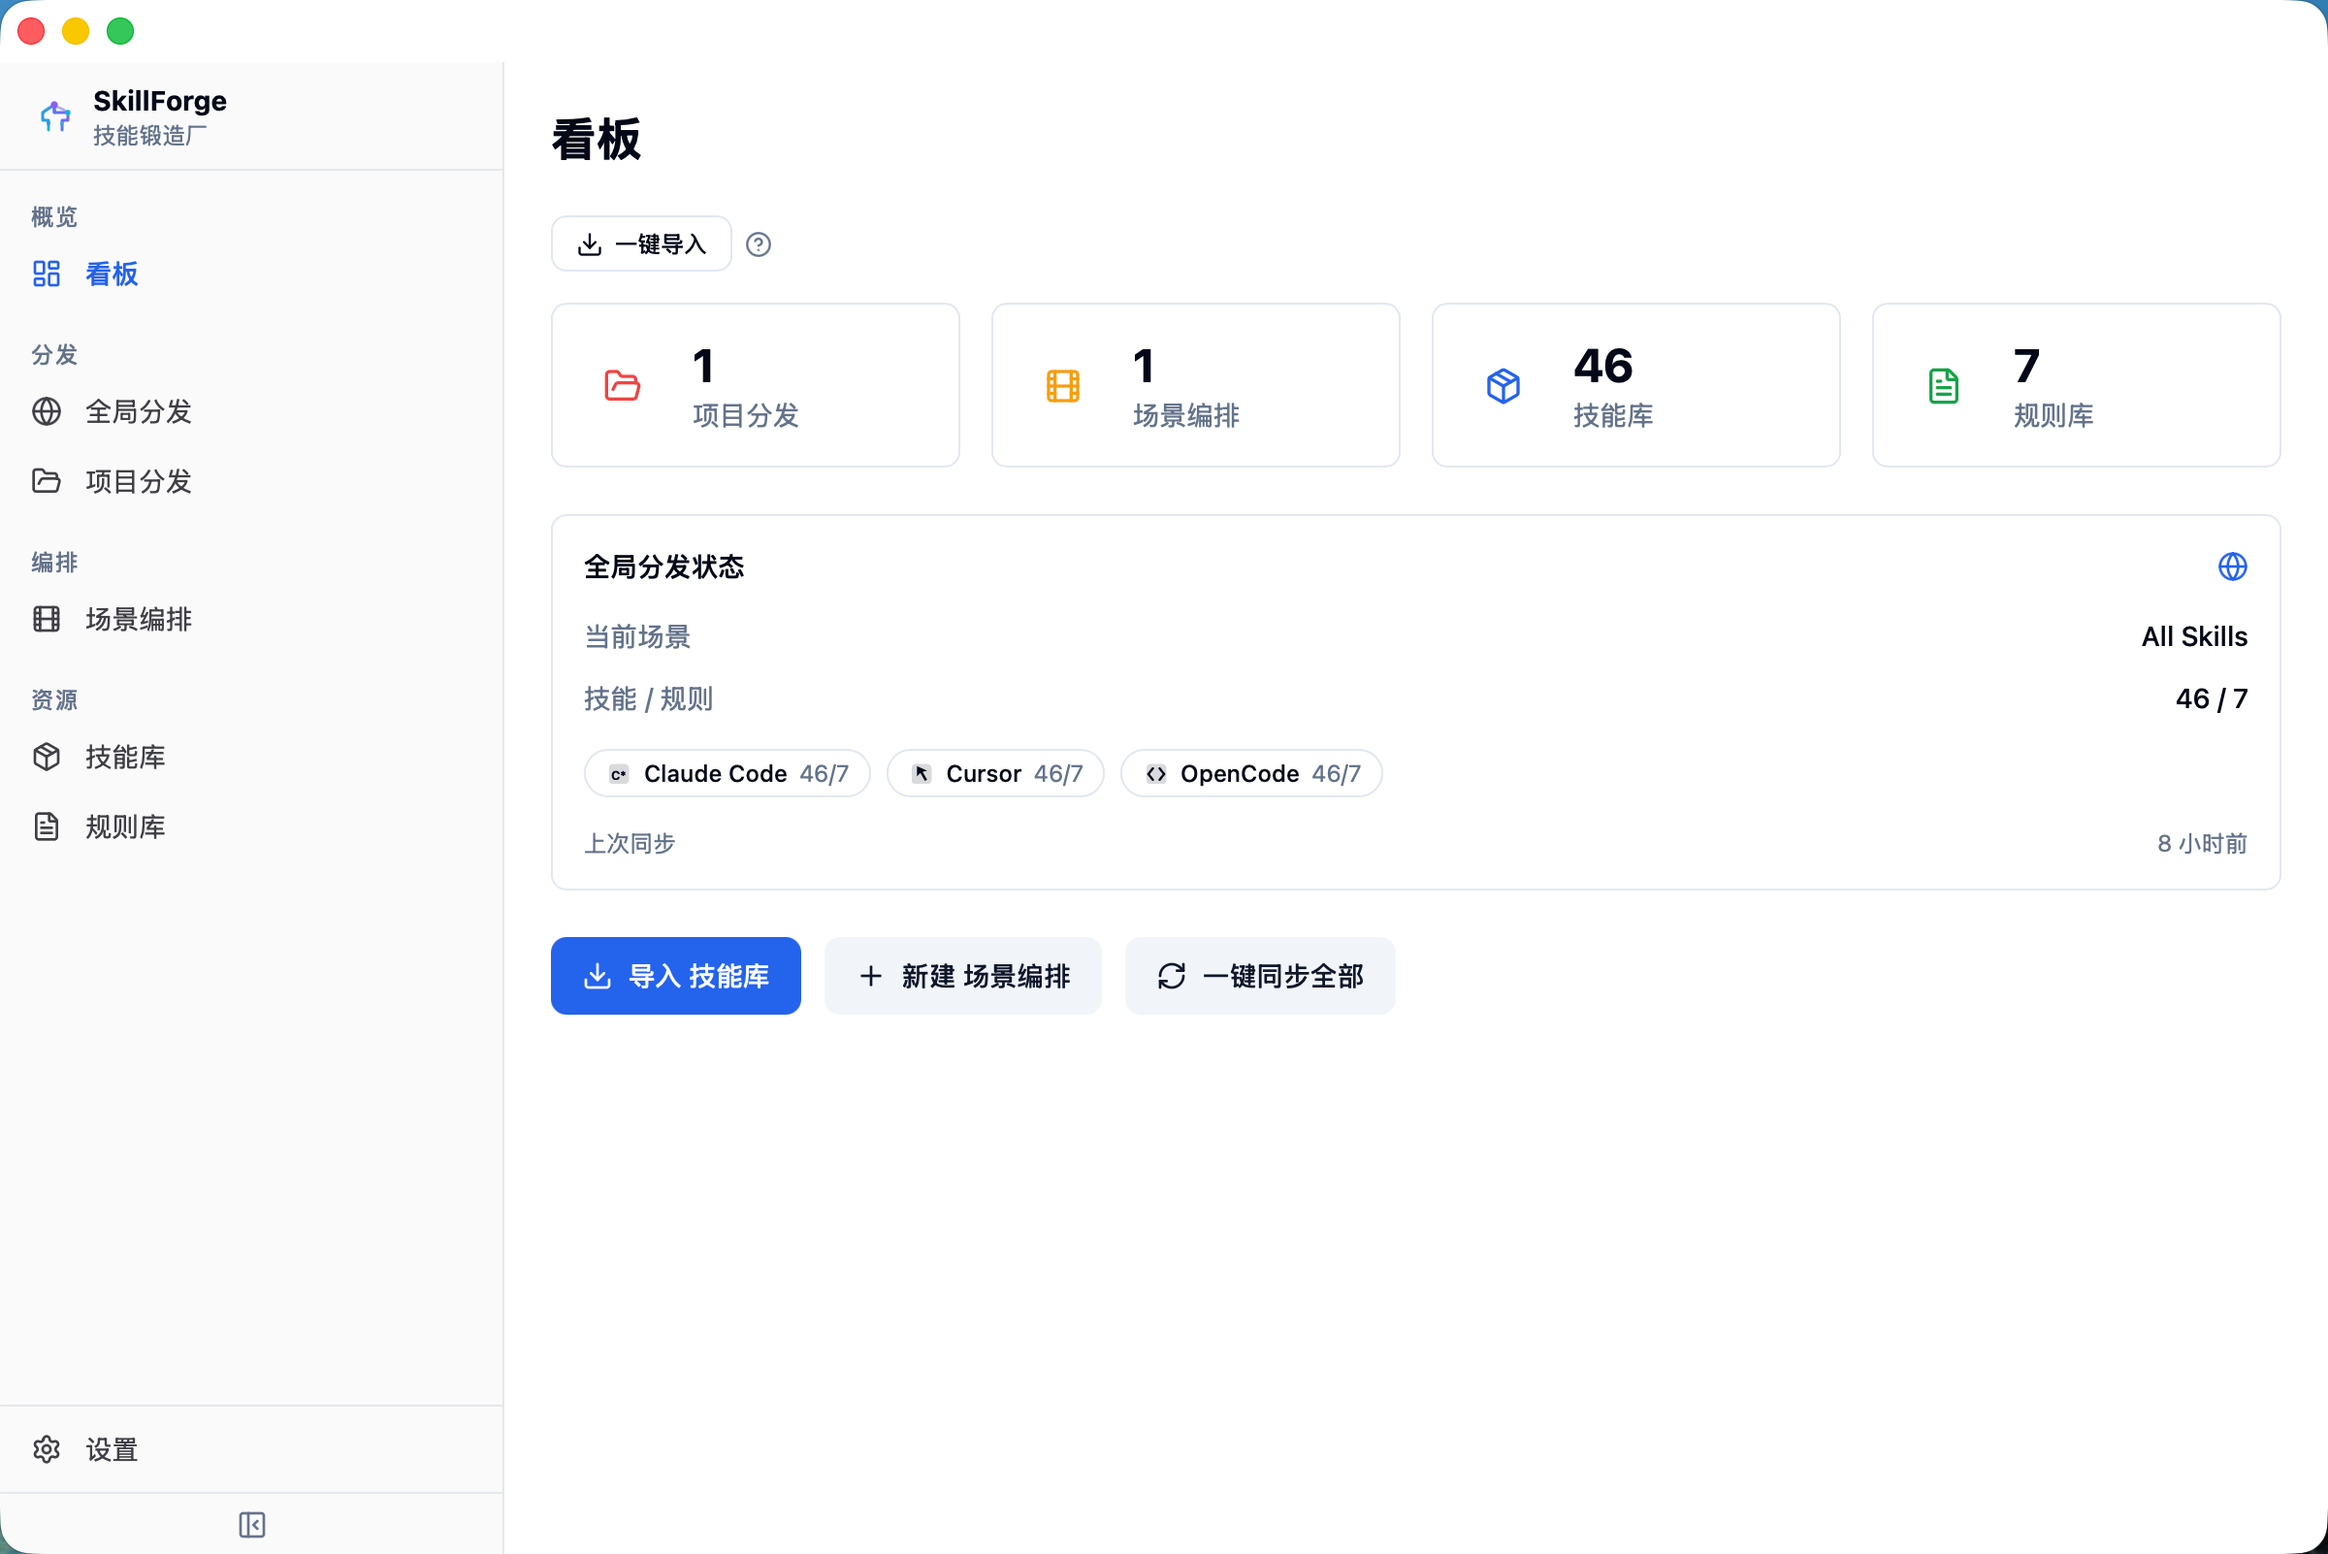
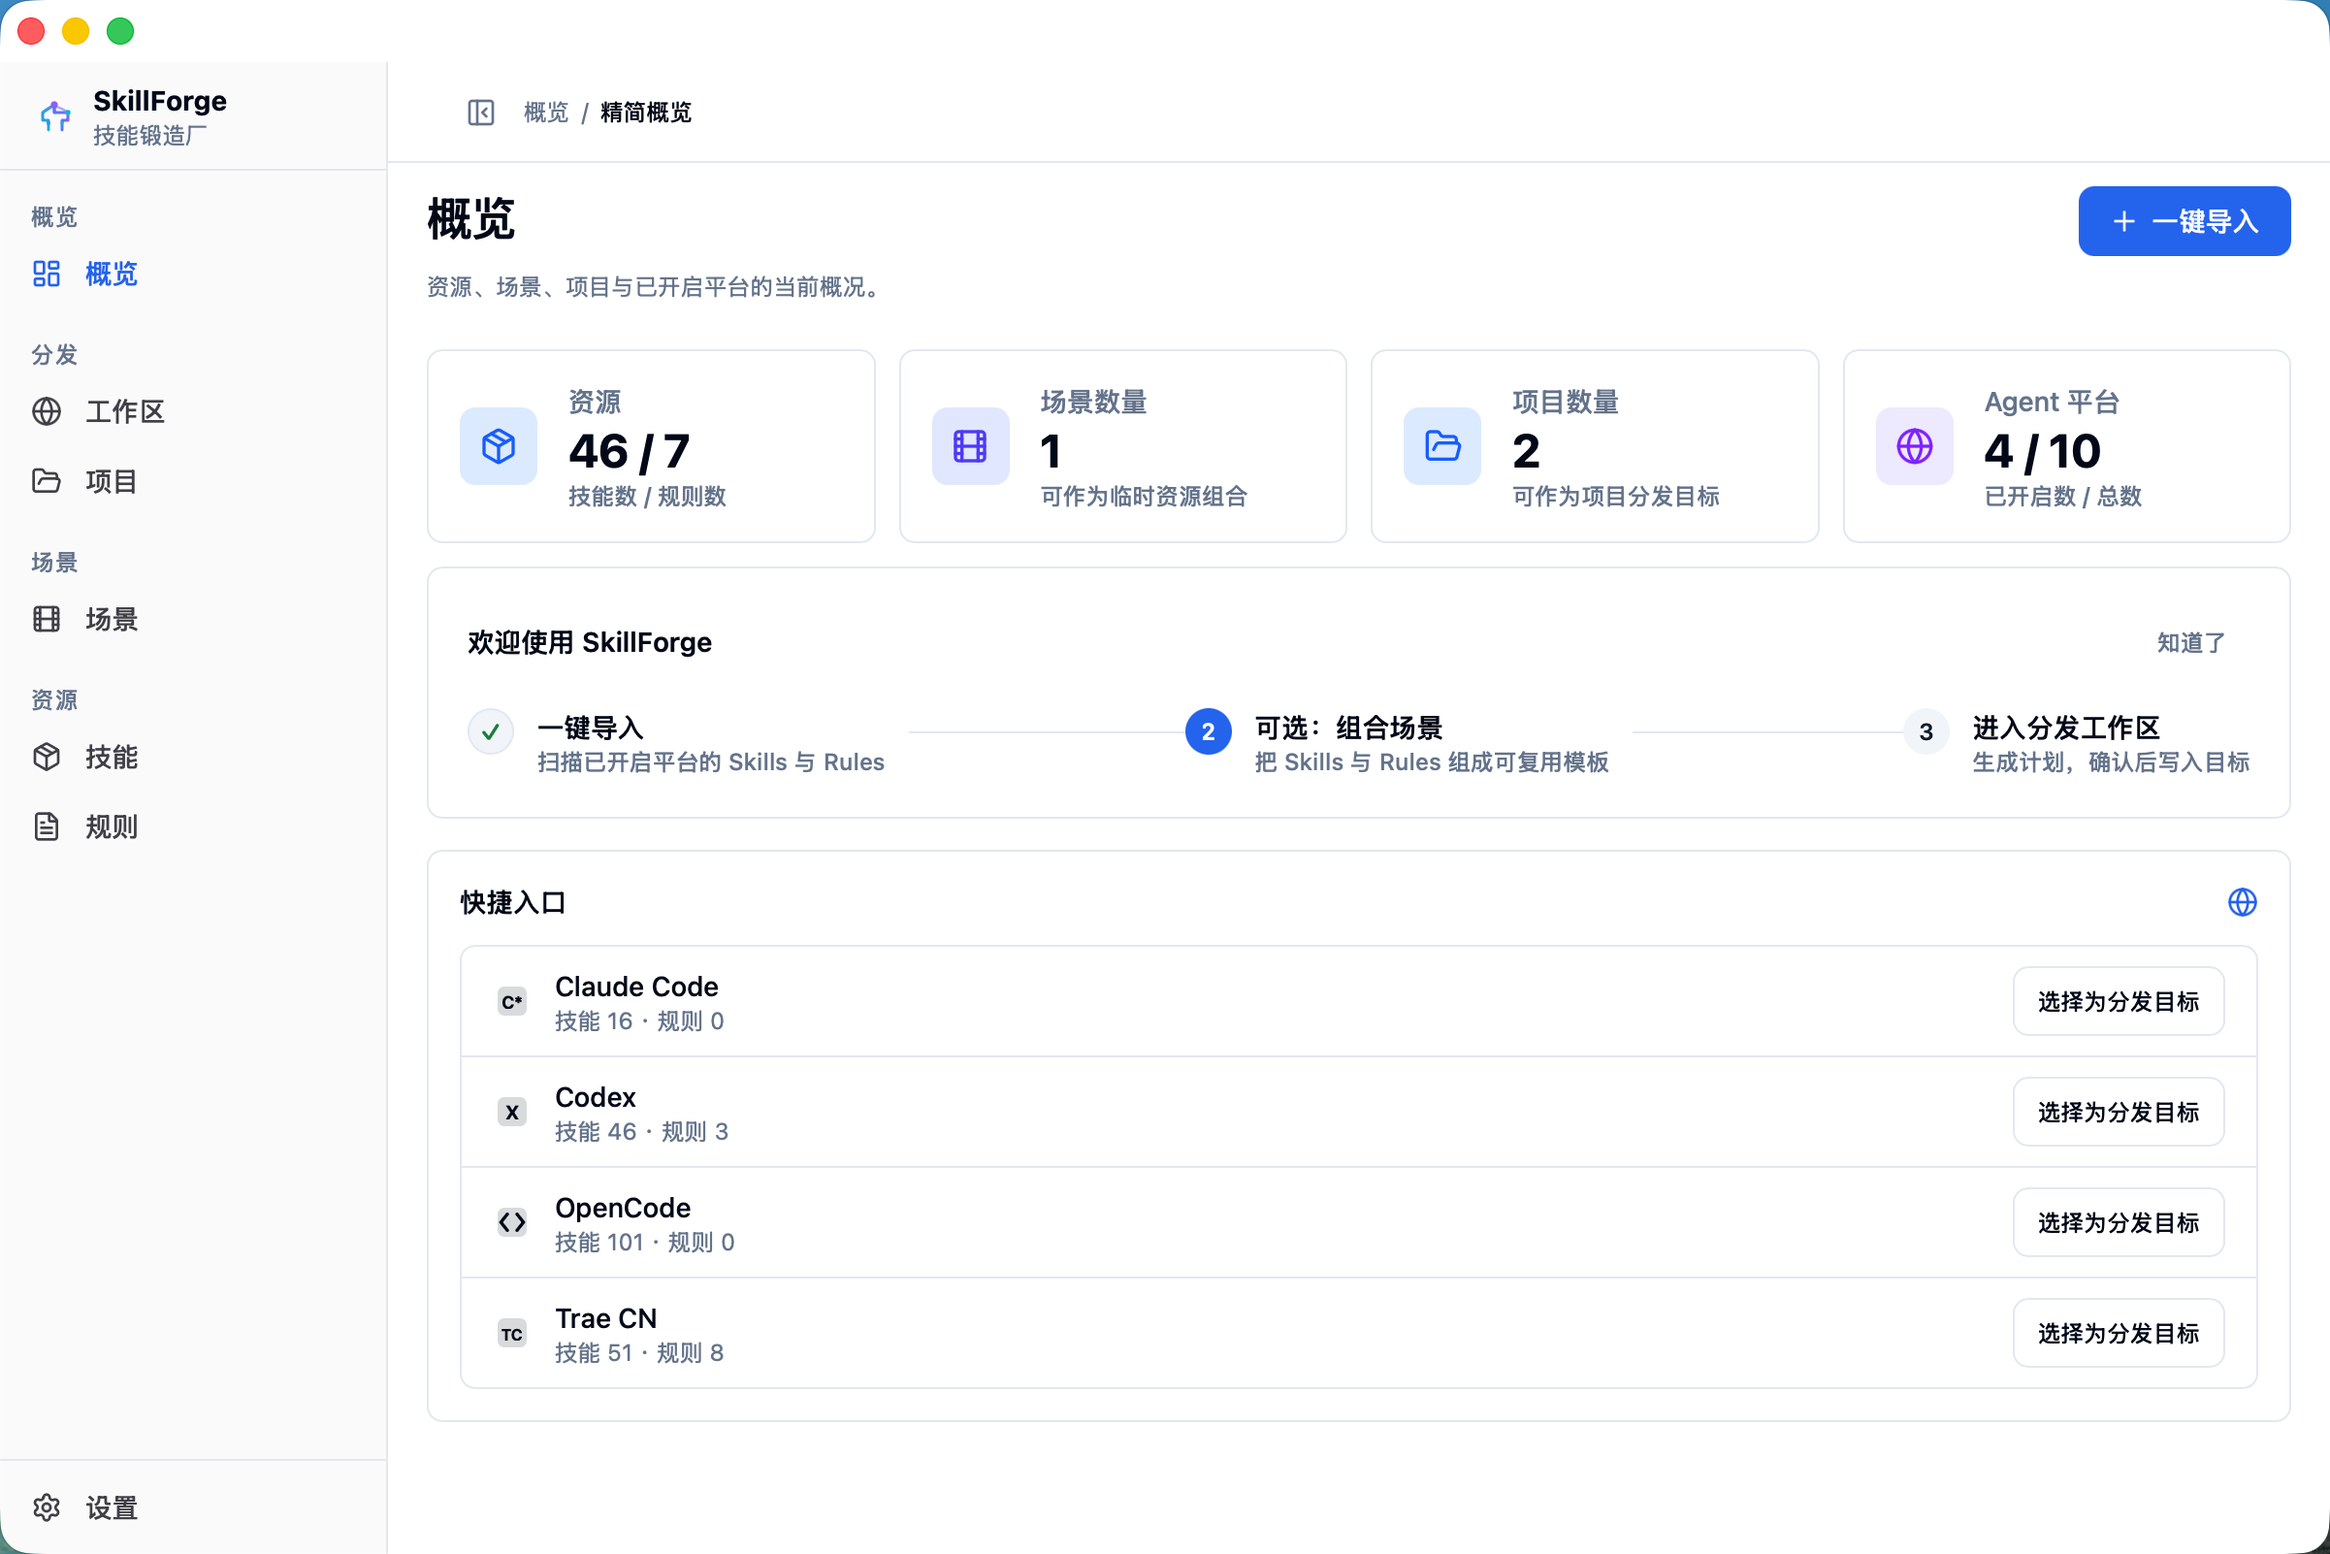
docs: 更新英文README的截图路径并新增英文截图
替换英文README里的dashboard图片为英文版本，新增英文界面的截图文件

diff --git a/README.en.md b/README.en.md
@@ -47,7 +47,7 @@ SkillForge is a skill management tool built for AI Agent users. It solves the pa
 
 ## 📸 Screenshots
 
-![SkillForge Dashboard](public/images/dashboard.png)
+![SkillForge Dashboard](public/images/dashboard_en.png)
 
 *SkillForge desktop app main window — manage AI Agent Skills and Rules in one place*
 
